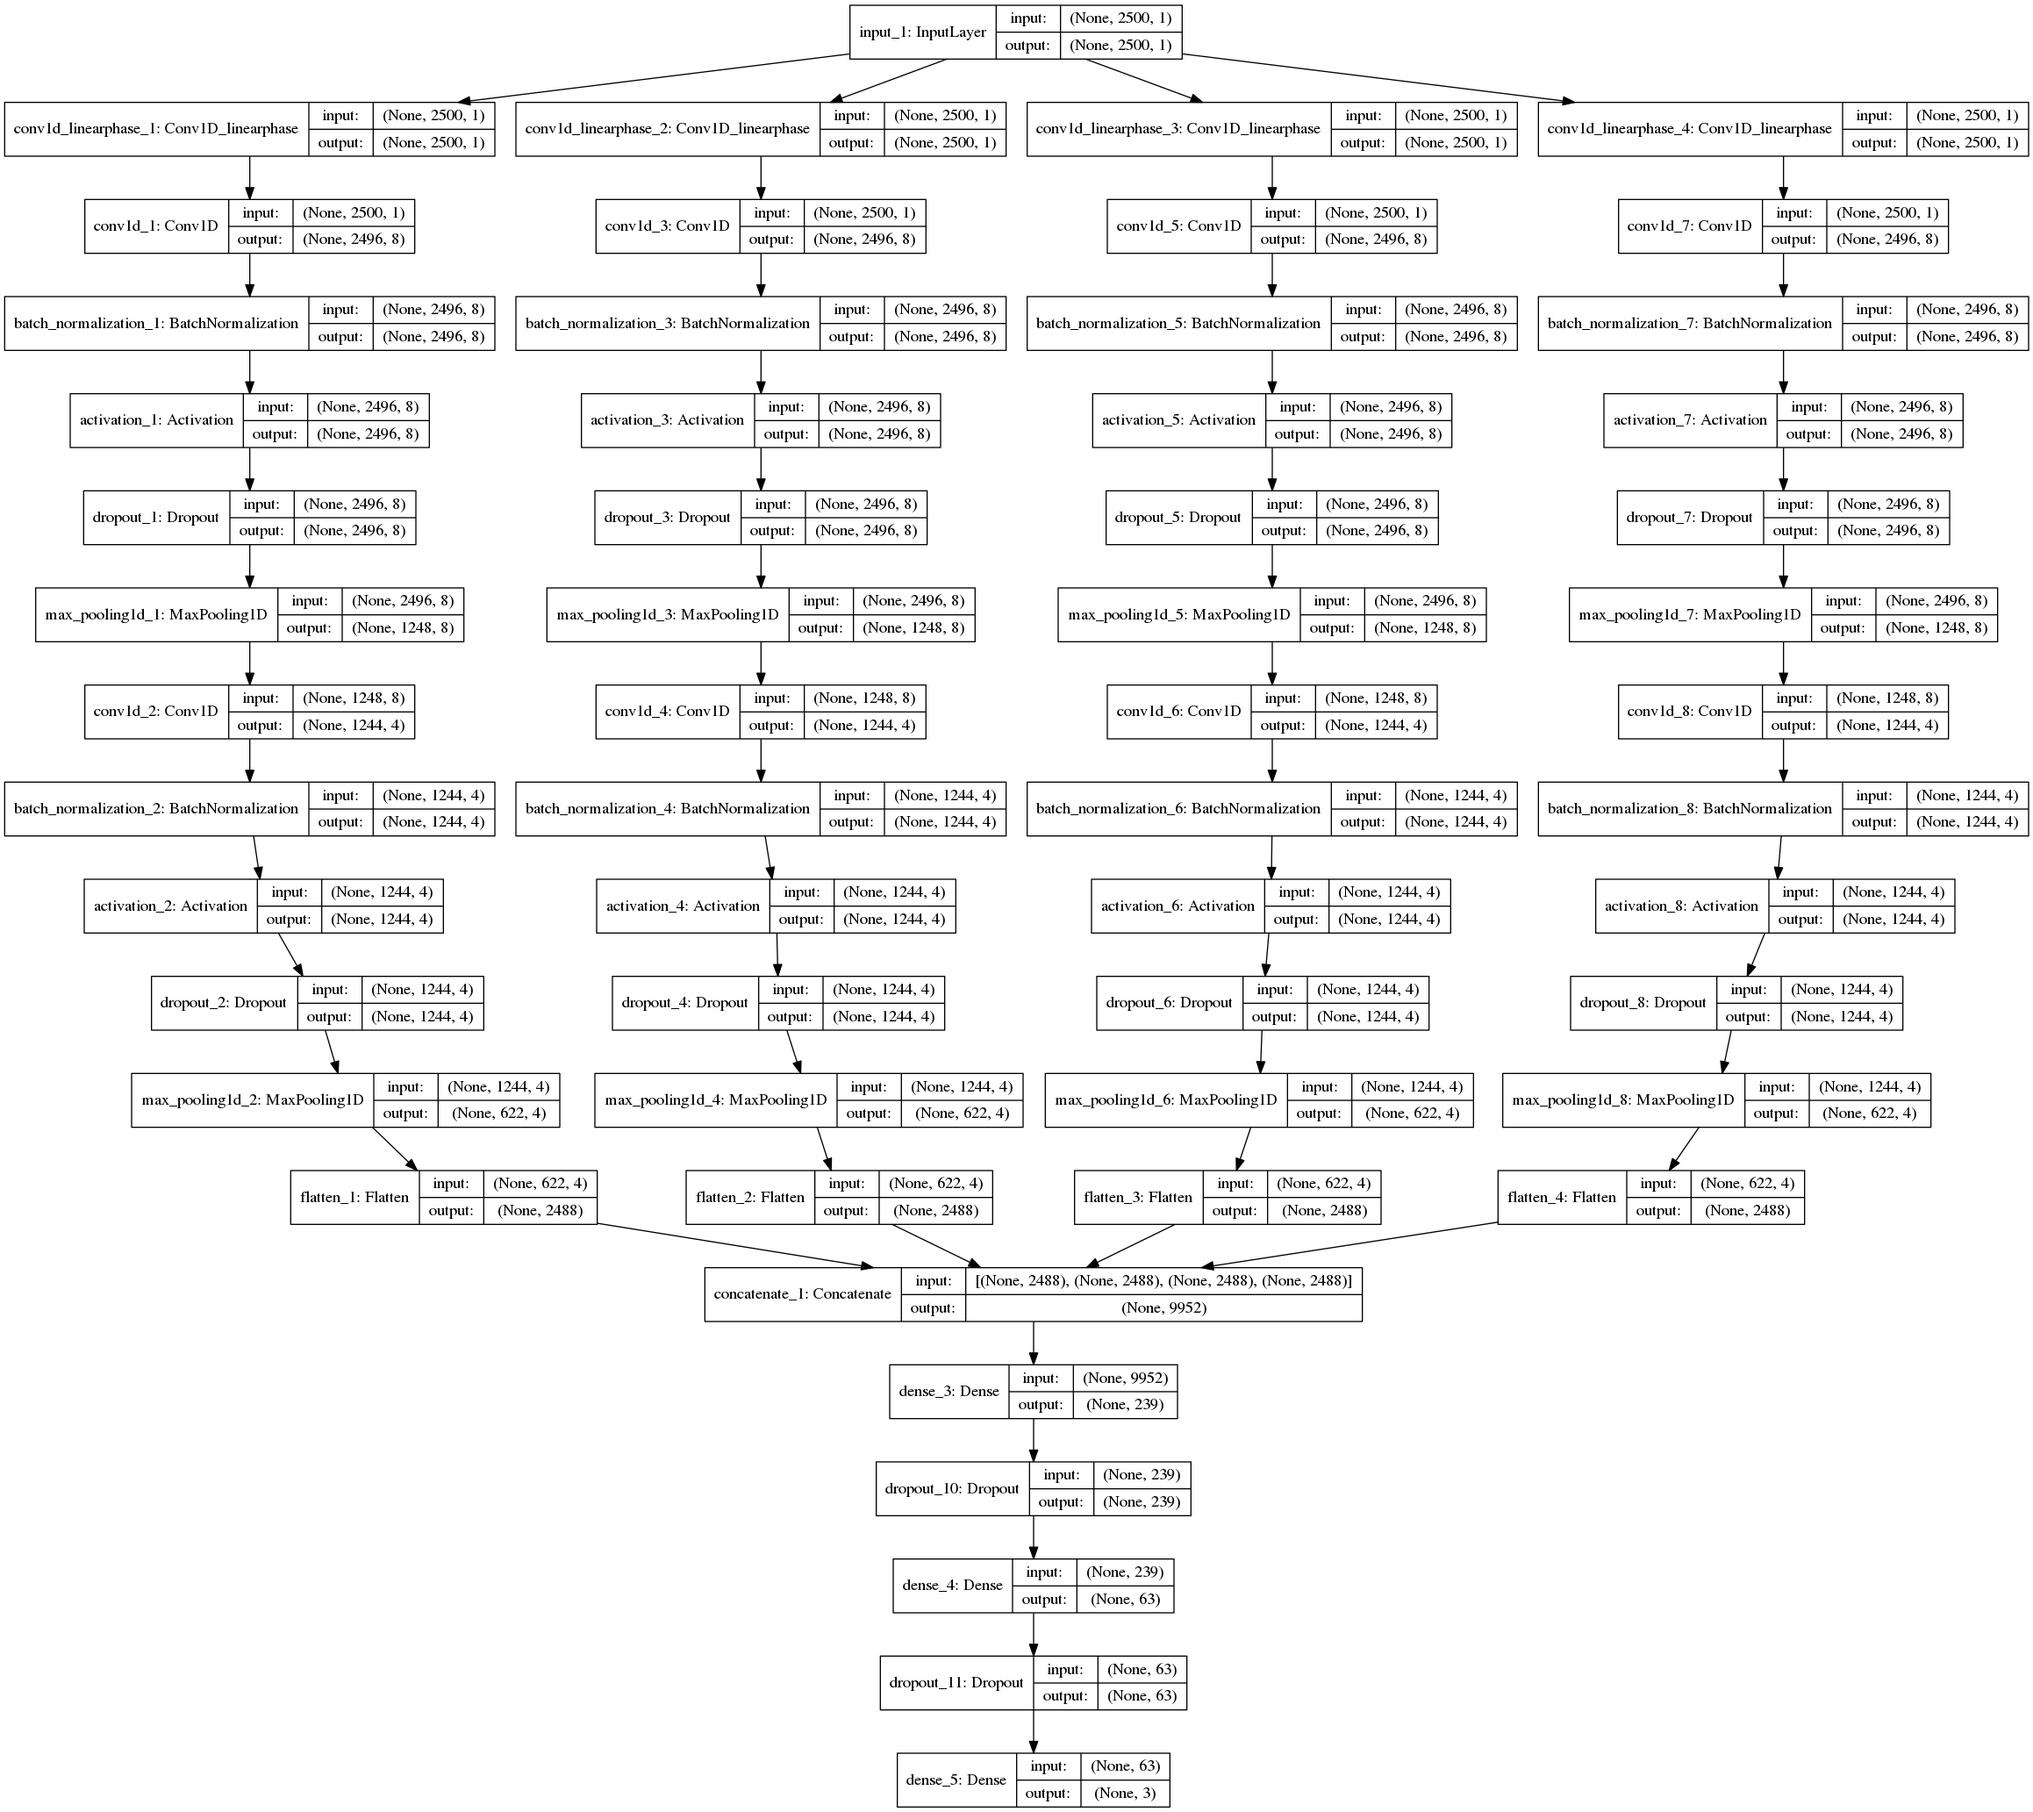
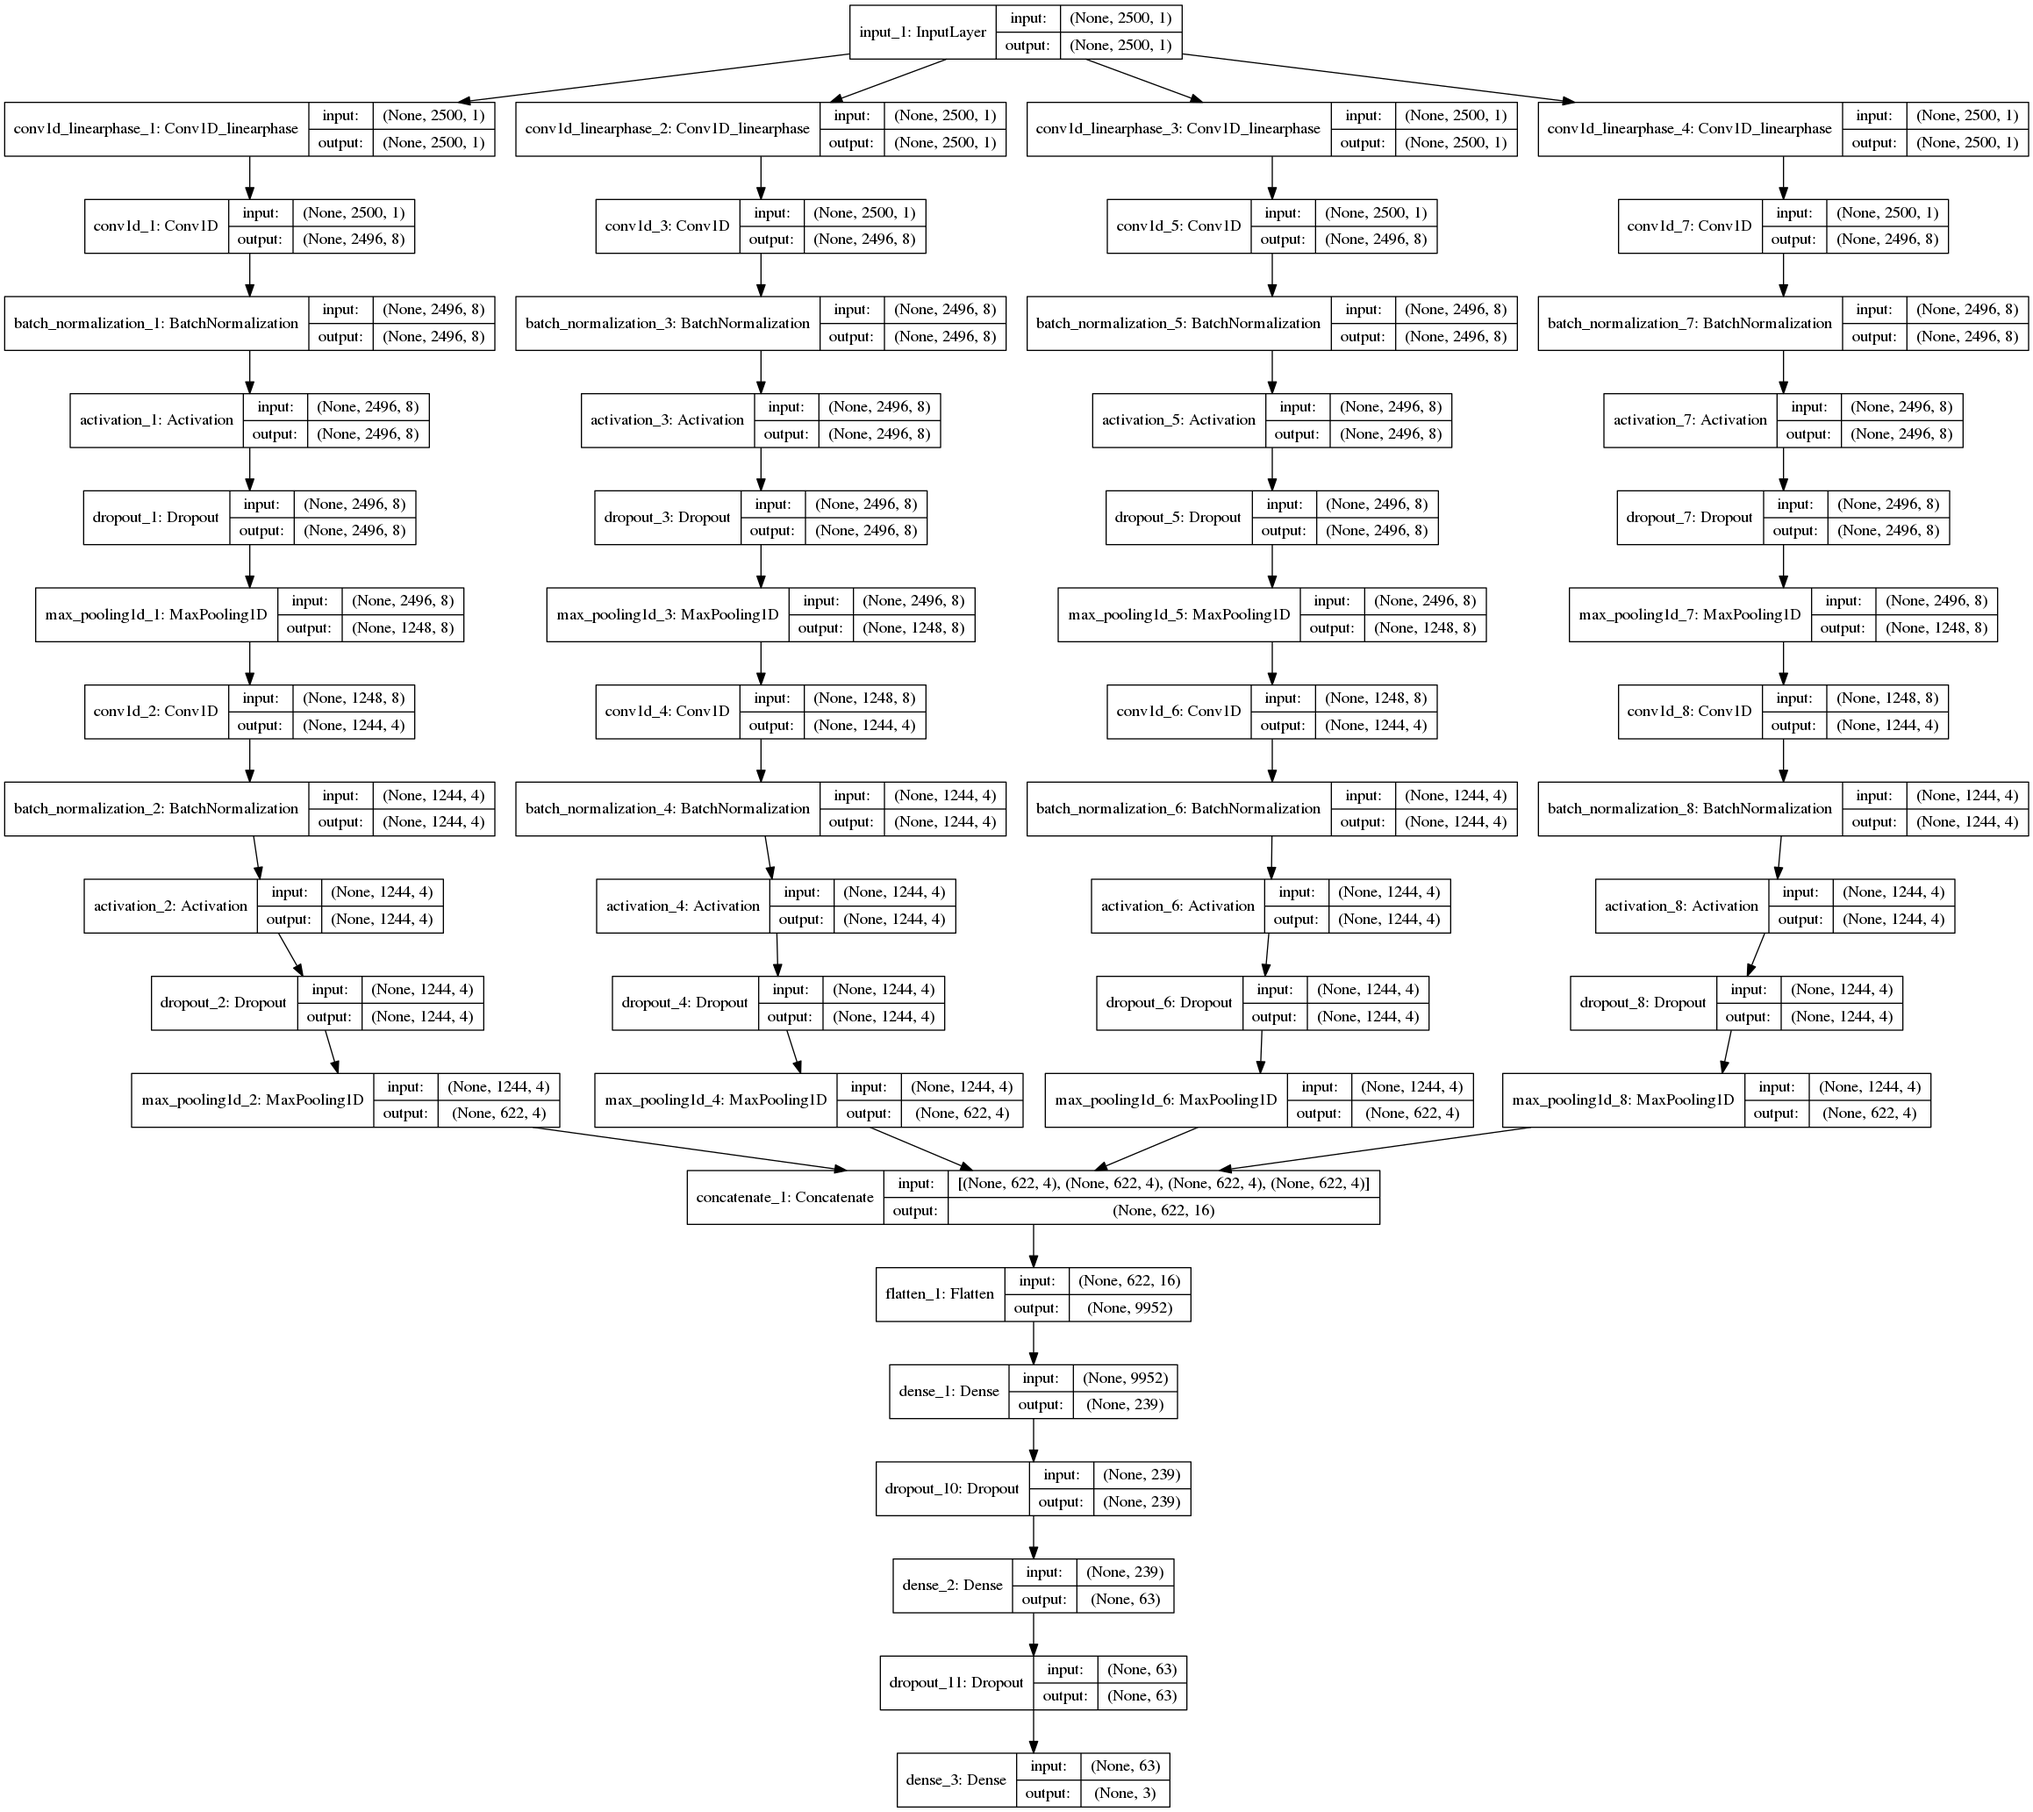
updater transfer learning code

diff --git a/train.py b/train.py
@@ -7,6 +7,7 @@ from heartnet_v1 import heartnet, reshape_folds, branch
 # config = tf.ConfigProto()
 # config.gpu_options.per_process_gpu_memory_fraction = 0.4
 # set_session(tf.Session(config=config))
+import matlab.engine
 import numpy as np
 np.random.seed(1)
 from tensorflow import set_random_seed
@@ -30,11 +31,6 @@ def compute_weight(Y, classes):
     class_weights = {i: (num_samples / (n_classes * num_bin[i])) for i in range(n_classes)}
     return class_weights
 
-# load_path,activation_function='relu', bn_momentum=0.99, bias=False, dropout_rate=0.5, dropout_rate_dense=0.0,
-#              eps=1.1e-5, kernel_size=5, l2_reg=0.0, l2_reg_dense=0.0,lr=0.0012843784, lr_decay=0.0001132885, maxnorm=10000.,
-#              padding='valid', random_seed=1, subsam=2, num_filt=(8, 4), num_dense=20,FIR_train=False,trainable=True
-
-
 def heartnet_transfer(load_path='/media/taufiq/Data/heart_sound/interspeech_compare/weights.0148-0.8902.hdf5',lr=0.0012843784,
                       model_json=None,
                       lr_decay=0.0001132885,num_dense1=20,
@@ -48,11 +44,11 @@ def heartnet_transfer(load_path='/media/taufiq/Data/heart_sound/interspeech_comp
         model.summary()
     plot_model(model,'before.png',show_shapes=True,show_layer_names=True)
     x = model.layers[-4].output
-    x = Dense(num_dense1,activation='relu',kernel_initializer=initializers.he_uniform(seed=1)) (x)
-    x = Dropout(rate=dropout_rate,seed=1) (x)
-    if num_dense2:
-        x = Dense(num_dense2, activation='relu',kernel_initializer=initializers.he_normal(seed=1))(x)
-        x = Dropout(rate=dropout_rate, seed=1)(x)
+    if num_dense1:
+        x = Dense(num_dense1,activation='relu',kernel_initializer=initializers.he_uniform(seed=1)) (x)
+        x = Dropout(rate=dropout_rate,seed=1) (x)
+    x = Dense(num_dense2, activation='relu',kernel_initializer=initializers.he_normal(seed=1))(x)
+    x = Dropout(rate=dropout_rate, seed=1)(x)
     output = Dense(3,activation='softmax')(x)
     model = Model(inputs=model.input,outputs=output)
     plot_model(model, 'after.png',show_shapes=True,show_layer_names=True)
@@ -84,8 +80,8 @@ class log_UAR(Callback):
                     continue
                 # ~ print "part {} start {} stop {}".format(s,start_idx,start_idx+int(s)-1)
 
-                temp_ = self.y_val_[start_idx:start_idx + int(s) - 1]
-                temp = y_pred[start_idx:start_idx + int(s) - 1]
+                temp_ = self.y_val_[start_idx:start_idx + int(s)]
+                temp = y_pred[start_idx:start_idx + int(s)]
 
                 if (sum(temp == 0) > sum(temp == 1)) and (sum(temp == 0) > sum(temp == 2)):
                     pred.append(0)
@@ -130,6 +126,7 @@ if __name__ == '__main__':
 
     model_json = '/media/taufiq/Data1/heart_sound/models/fold1+compare 2018-04-17 22:03:55.445492/model.json'
     load_path= '/media/taufiq/Data1/heart_sound/models/fold1+compare 2018-04-17 22:03:55.445492/weights.0161-0.8362.hdf5'
+    exclude_file = 'exclude_compare'
     # lr = 0.00001
     lr = 0.0002332976
     num_dense1 = 239 #34,120,167,239,1239,650,788,422,598
@@ -138,11 +135,13 @@ if __name__ == '__main__':
     batch_size = 1024
     dropout_rate = 0.5
     trainable = True
-    addweights = True
+    addweights = False
 
     # res_thresh = .5
-    model = heartnet_transfer(load_path=load_path,lr=lr,num_dense1=num_dense1,num_dense2=num_dense2,trainable=trainable,dropout_rate=dropout_rate)
-
+    model = heartnet_transfer(load_path=load_path,lr=lr,num_dense1=num_dense1,num_dense2=num_dense2,trainable=trainable,dropout_rate=dropout_rate,model_json=model_json)
+    model_json = model.to_json()
+    with open(model_dir + log_name + "/model.json", "w") as json_file:
+        json_file.write(model_json)
     ###### Load Data ######
 
     feat = tables.open_file(fold_dir + foldname + '.mat')
@@ -153,10 +152,18 @@ if __name__ == '__main__':
     train_parts = feat.root.train_parts[0, :]
     val_parts = feat.root.val_parts[0, :]
 
-    ###### Create file index ########
+    ###### Get list for exclusion ########
 
+    eng = matlab.engine.start_matlab()
+    excl = eng.load(os.path.join(fold_dir, exclude_file+'.mat'))
+    eng.quit()
+    excl1 = excl['excludes1']
+    excl2 = excl['excludes2']
 
+    # convert to indices
 
+    excl1 = [int(each.split('_')[-1].split('.')[0]) for each in excl1]
+    excl2 = [int(each.split('_')[-1].split('.')[0]) for each in excl2]
 
     ############### Reshaping ############
 
@@ -164,20 +171,30 @@ if __name__ == '__main__':
     y_train = to_categorical(y_train,num_classes=3)
     y_val = to_categorical(y_val,num_classes=3)
 
+    ####### Exclude permanent excludes #######
+
+    start_idx = 0
+    drop_idx = []
+    for idx, s in enumerate(train_parts):
+        if idx in excl1:
+            drop_idx.append(np.r_[start_idx:start_idx + int(s)])
+        start_idx = start_idx + int(s)
+    drop_idx = np.hstack(drop_idx)
+    x_train = np.delete(x_train, drop_idx, axis=0)
+    y_train = np.delete(y_train, drop_idx, axis=0)
+
     ### Callbacks ###
-    csv_logger = CSVLogger(log_dir + log_name + '/training.csv')
     modelcheckpnt = ModelCheckpoint(filepath=checkpoint_name,
-                                    monitor='val_acc', save_best_only=True, mode='max')
+                                    monitor='val_acc', save_best_only=False, mode='max')
     tensbd = TensorBoard(log_dir=log_dir + log_name,
-                         batch_size=batch_size,
-                         # histogram_freq=100,
+                         batch_size=batch_size, histogram_freq=50,
+                         write_grads=True,
                          # embeddings_freq=99,
                          # embeddings_layer_names=embedding_layer_names,
                          # embeddings_data=x_val,
                          # embeddings_metadata=metadata_file,
                          write_images=False)
-    print(np.sum(y_train,axis=-2))
-    print(np.sum(y_val, axis=-2))
+    csv_logger = CSVLogger(log_dir + log_name + '/training.csv')
 
     ### Data Generator ###
 
@@ -189,19 +206,13 @@ if __name__ == '__main__':
                                  # samplewise_center=True,
                                  # samplewise_std_normalization=True,
                                  )
-    valgen = AudioDataGenerator(
-                                 # fill_mode='reflect',
-                                 # featurewise_center=True,
-                                 # zoom_range=.2,
-                                 # zca_whitening=True,
-                                 # samplewise_center=True,
-                                 # samplewise_std_normalization=True,
-                                 )
     datagen.fit(x_train)
-    valgen.fit(x_val)
+
     ### Train ###
+
     class_weights=compute_weight(y_train,range(3))
     print(class_weights)
+
     if addweights:
         model.fit_generator(datagen.flow(x_train,y_train,batch_size,shuffle=True,seed=1),
                             steps_per_epoch=len(x_train)/batch_size,
@@ -213,43 +224,21 @@ if __name__ == '__main__':
                             callbacks=[modelcheckpnt,
                                        log_UAR(x_val, y_val, val_parts),
                                        tensbd, csv_logger],
-                            validation_data=valgen.flow(x_val,y_val,batch_size,shuffle=True,seed=1))
+                            validation_data=(x_val,y_val))
+    else:
+        model.fit_generator(datagen.flow(x_train,y_train,batch_size,shuffle=True,seed=1),
+                            steps_per_epoch=len(x_train)/batch_size,
+                            use_multiprocessing=True,
+                            epochs=epochs,
+                            verbose=2,
+                            shuffle=True,
+                            # class_weight=class_weights,
+                            callbacks=[modelcheckpnt,
+                                       log_UAR(x_val, y_val, val_parts),
+                                       tensbd, csv_logger],
+                            validation_data=(x_val,y_val))
 
     ###### Results #####
-
-    y_pred = model.predict(x_val, verbose=0)
-    y_pred = np.argmax(y_pred,axis=-1)
-    y_val = np.transpose(np.argmax(y_val,axis=-1))
-    true = []
-    pred = []
-    start_idx = 0
-    for s in val_parts:
-
-        if not s:  ## for e00032 in validation0 there was no cardiac cycle
-            continue
-        # ~ print "part {} start {} stop {}".format(s,start_idx,start_idx+int(s)-1)
-
-        temp_ = y_val[start_idx:start_idx + int(s) - 1]
-        temp = y_pred[start_idx:start_idx + int(s) - 1]
-
-        if (sum(temp==0) > sum(temp==1)) and  (sum(temp==0) > sum(temp==2)):
-            pred.append(0)
-        elif (sum(temp==2) > sum(temp==1)) and  (sum(temp==2) > sum(temp==0)):
-            pred.append(2)
-        else:
-            pred.append(1)
-
-        if (sum(temp_ == 0) > sum(temp_ == 1)) and (sum(temp_ == 0) > sum(temp_ == 2)):
-            true.append(0)
-        elif (sum(temp_ == 2) > sum(temp_ == 1)) and (sum(temp_ == 2) > sum(temp_ == 0)):
-            true.append(2)
-        else:
-            true.append(1)
-
-        start_idx = start_idx + int(s)
-    score = recall_score(y_pred=pred, y_true=true, average='macro')
-    print(score)
-    print(confusion_matrix(y_true=true,y_pred=pred))
 
     ##### log results #####
     df = pd.read_csv(results_path)
